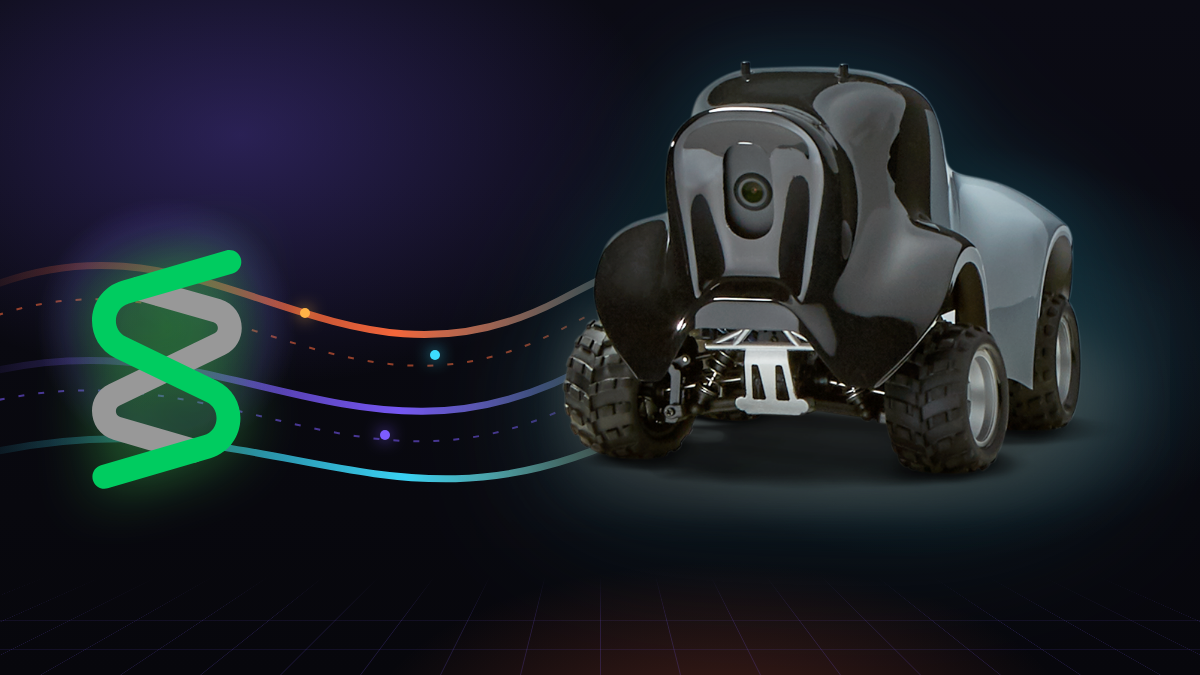
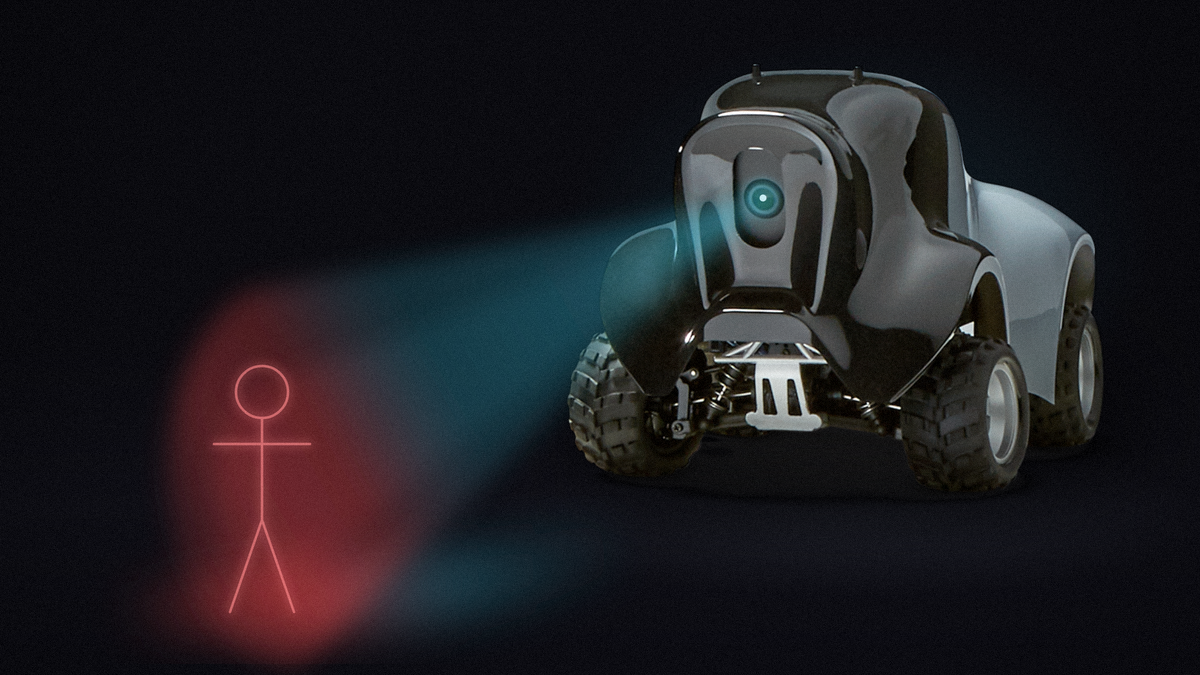
docs(article): new cover

diff --git a/docs/article/img/svg/cover-candidates/cover-C.html b/docs/article/img/svg/cover-candidates/cover-C.html
@@ -1,0 +1,69 @@
+<!doctype html><html><head><meta charset="utf-8"><title>Cover C Strands</title><style>
+/* Cover candidate C, "Strands": three ribbons from the Strands mark into the car's camera and wheels,
+   a night grid with depth of field (sharp near the car, soft at the edges), bloom on the light only. */
+html,body{margin:0;background:#0b0b10}
+.c{position:relative;width:1200px;height:675px;overflow:hidden;background:#0b0b10}
+.abs{position:absolute}
+.sky{left:0;top:0;width:1200px;height:675px;background:
+  radial-gradient(640px 200px at 760px 300px,rgba(61,220,255,.10),transparent 70%),
+  radial-gradient(420px 260px at 790px 250px,rgba(61,220,255,.08),transparent 70%),
+  linear-gradient(180deg,#0b0b10 0%,#0d0e16 40%,#0b0b10 46%,#0e0e15 100%)}
+svg{position:absolute;left:0;top:0}
+.gridSoft{filter:blur(4.5px)}
+.gridSharp{-webkit-mask-image:radial-gradient(470px 105px at 780px 482px,#000 35%,transparent 100%)}
+.car{left:430px;top:52px;width:746px}
+.shadow{left:430px;top:52px;width:746px;opacity:.95}
+.mark{left:84px;top:226px;height:206px}
+.halo{left:-20px;top:150px;width:340px;height:360px;border-radius:50%;
+  background:radial-gradient(closest-side,rgba(63,185,80,.20),rgba(63,185,80,.06) 55%,transparent)}
+</style></head><body><div class="c">
+<div class="abs sky"></div>
+<!-- the grid: a soft copy everywhere, a sharp copy only where the car stands -->
+<svg class="gridSoft" width="1200" height="675" viewBox="0 0 1200 675"><defs>
+ <linearGradient id="gf" x1="0" y1="300" x2="0" y2="675" gradientUnits="userSpaceOnUse"><stop offset="0" stop-color="#3ddcff" stop-opacity="0"/><stop offset=".25" stop-color="#3ddcff" stop-opacity=".16"/><stop offset="1" stop-color="#3ddcff" stop-opacity=".30"/></linearGradient></defs>
+ <path d="M-50 677.9 H1250 M-50 609.8 H1250 M-50 553.9 H1250 M-50 508.1 H1250 M-50 470.6 H1250 M-50 439.8 H1250 M-50 414.6 H1250 M-50 393.9 H1250 M-50 377.0 H1250 M-50 363.1 H1250 M-50 351.7 H1250 M-50 342.4 H1250 M-50 334.8 H1250 M-50 328.5 H1250 M-50 323.4 H1250 M-50 319.1 H1250 M-50 315.7 H1250 M-19040.0 1200.0 L512.5 311.2 M-18545.0 1200.0 L518.7 311.2 M-18050.0 1200.0 L524.9 311.2 M-17555.0 1200.0 L531.1 311.2 M-17060.0 1200.0 L537.2 311.2 M-16565.0 1200.0 L543.4 311.2 M-16070.0 1200.0 L549.6 311.2 M-15575.0 1200.0 L555.8 311.2 M-15080.0 1200.0 L562.0 311.2 M-14585.0 1200.0 L568.2 311.2 M-14090.0 1200.0 L574.4 311.2 M-13595.0 1200.0 L580.6 311.2 M-13100.0 1200.0 L586.8 311.2 M-12605.0 1200.0 L592.9 311.2 M-12110.0 1200.0 L599.1 311.2 M-11615.0 1200.0 L605.3 311.2 M-11120.0 1200.0 L611.5 311.2 M-10625.0 1200.0 L617.7 311.2 M-10130.0 1200.0 L623.9 311.2 M-9635.0 1200.0 L630.1 311.2 M-9140.0 1200.0 L636.2 311.2 M-8645.0 1200.0 L642.4 311.2 M-8150.0 1200.0 L648.6 311.2 M-7655.0 1200.0 L654.8 311.2 M-7160.0 1200.0 L661.0 311.2 M-6665.0 1200.0 L667.2 311.2 M-6170.0 1200.0 L673.4 311.2 M-5675.0 1200.0 L679.6 311.2 M-5180.0 1200.0 L685.8 311.2 M-4685.0 1200.0 L691.9 311.2 M-4190.0 1200.0 L698.1 311.2 M-3695.0 1200.0 L704.3 311.2 M-3200.0 1200.0 L710.5 311.2 M-2705.0 1200.0 L716.7 311.2 M-2210.0 1200.0 L722.9 311.2 M-1715.0 1200.0 L729.1 311.2 M-1220.0 1200.0 L735.2 311.2 M-725.0 1200.0 L741.4 311.2 M-230.0 1200.0 L747.6 311.2 M265.0 1200.0 L753.8 311.2 M760.0 1200.0 L760.0 311.2 M1255.0 1200.0 L766.2 311.2 M1750.0 1200.0 L772.4 311.2 M2245.0 1200.0 L778.6 311.2 M2740.0 1200.0 L784.8 311.2 M3235.0 1200.0 L790.9 311.2 M3730.0 1200.0 L797.1 311.2 M4225.0 1200.0 L803.3 311.2 M4720.0 1200.0 L809.5 311.2 M5215.0 1200.0 L815.7 311.2 M5710.0 1200.0 L821.9 311.2 M6205.0 1200.0 L828.1 311.2 M6700.0 1200.0 L834.2 311.2 M7195.0 1200.0 L840.4 311.2 M7690.0 1200.0 L846.6 311.2 M8185.0 1200.0 L852.8 311.2 M8680.0 1200.0 L859.0 311.2 M9175.0 1200.0 L865.2 311.2 M9670.0 1200.0 L871.4 311.2 M10165.0 1200.0 L877.6 311.2 M10660.0 1200.0 L883.8 311.2 M11155.0 1200.0 L889.9 311.2 M11650.0 1200.0 L896.1 311.2 M12145.0 1200.0 L902.3 311.2 M12640.0 1200.0 L908.5 311.2 M13135.0 1200.0 L914.7 311.2 M13630.0 1200.0 L920.9 311.2 M14125.0 1200.0 L927.1 311.2 M14620.0 1200.0 L933.2 311.2 M15115.0 1200.0 L939.4 311.2 M15610.0 1200.0 L945.6 311.2 M16105.0 1200.0 L951.8 311.2 M16600.0 1200.0 L958.0 311.2 M17095.0 1200.0 L964.2 311.2 M17590.0 1200.0 L970.4 311.2 M18085.0 1200.0 L976.6 311.2 M18580.0 1200.0 L982.8 311.2 M19075.0 1200.0 L988.9 311.2 M19570.0 1200.0 L995.1 311.2 M20065.0 1200.0 L1001.3 311.2 M20560.0 1200.0 L1007.5 311.2" stroke="url(#gf)" stroke-width="1.2" fill="none"/></svg>
+<svg class="gridSharp" width="1200" height="675" viewBox="0 0 1200 675"><defs>
+ <linearGradient id="gs" x1="0" y1="300" x2="0" y2="675" gradientUnits="userSpaceOnUse"><stop offset="0" stop-color="#3ddcff" stop-opacity="0"/><stop offset=".25" stop-color="#3ddcff" stop-opacity=".22"/><stop offset="1" stop-color="#3ddcff" stop-opacity=".38"/></linearGradient></defs>
+ <path d="M-50 677.9 H1250 M-50 609.8 H1250 M-50 553.9 H1250 M-50 508.1 H1250 M-50 470.6 H1250 M-50 439.8 H1250 M-50 414.6 H1250 M-50 393.9 H1250 M-50 377.0 H1250 M-50 363.1 H1250 M-50 351.7 H1250 M-50 342.4 H1250 M-50 334.8 H1250 M-50 328.5 H1250 M-50 323.4 H1250 M-50 319.1 H1250 M-50 315.7 H1250 M-19040.0 1200.0 L512.5 311.2 M-18545.0 1200.0 L518.7 311.2 M-18050.0 1200.0 L524.9 311.2 M-17555.0 1200.0 L531.1 311.2 M-17060.0 1200.0 L537.2 311.2 M-16565.0 1200.0 L543.4 311.2 M-16070.0 1200.0 L549.6 311.2 M-15575.0 1200.0 L555.8 311.2 M-15080.0 1200.0 L562.0 311.2 M-14585.0 1200.0 L568.2 311.2 M-14090.0 1200.0 L574.4 311.2 M-13595.0 1200.0 L580.6 311.2 M-13100.0 1200.0 L586.8 311.2 M-12605.0 1200.0 L592.9 311.2 M-12110.0 1200.0 L599.1 311.2 M-11615.0 1200.0 L605.3 311.2 M-11120.0 1200.0 L611.5 311.2 M-10625.0 1200.0 L617.7 311.2 M-10130.0 1200.0 L623.9 311.2 M-9635.0 1200.0 L630.1 311.2 M-9140.0 1200.0 L636.2 311.2 M-8645.0 1200.0 L642.4 311.2 M-8150.0 1200.0 L648.6 311.2 M-7655.0 1200.0 L654.8 311.2 M-7160.0 1200.0 L661.0 311.2 M-6665.0 1200.0 L667.2 311.2 M-6170.0 1200.0 L673.4 311.2 M-5675.0 1200.0 L679.6 311.2 M-5180.0 1200.0 L685.8 311.2 M-4685.0 1200.0 L691.9 311.2 M-4190.0 1200.0 L698.1 311.2 M-3695.0 1200.0 L704.3 311.2 M-3200.0 1200.0 L710.5 311.2 M-2705.0 1200.0 L716.7 311.2 M-2210.0 1200.0 L722.9 311.2 M-1715.0 1200.0 L729.1 311.2 M-1220.0 1200.0 L735.2 311.2 M-725.0 1200.0 L741.4 311.2 M-230.0 1200.0 L747.6 311.2 M265.0 1200.0 L753.8 311.2 M760.0 1200.0 L760.0 311.2 M1255.0 1200.0 L766.2 311.2 M1750.0 1200.0 L772.4 311.2 M2245.0 1200.0 L778.6 311.2 M2740.0 1200.0 L784.8 311.2 M3235.0 1200.0 L790.9 311.2 M3730.0 1200.0 L797.1 311.2 M4225.0 1200.0 L803.3 311.2 M4720.0 1200.0 L809.5 311.2 M5215.0 1200.0 L815.7 311.2 M5710.0 1200.0 L821.9 311.2 M6205.0 1200.0 L828.1 311.2 M6700.0 1200.0 L834.2 311.2 M7195.0 1200.0 L840.4 311.2 M7690.0 1200.0 L846.6 311.2 M8185.0 1200.0 L852.8 311.2 M8680.0 1200.0 L859.0 311.2 M9175.0 1200.0 L865.2 311.2 M9670.0 1200.0 L871.4 311.2 M10165.0 1200.0 L877.6 311.2 M10660.0 1200.0 L883.8 311.2 M11155.0 1200.0 L889.9 311.2 M11650.0 1200.0 L896.1 311.2 M12145.0 1200.0 L902.3 311.2 M12640.0 1200.0 L908.5 311.2 M13135.0 1200.0 L914.7 311.2 M13630.0 1200.0 L920.9 311.2 M14125.0 1200.0 L927.1 311.2 M14620.0 1200.0 L933.2 311.2 M15115.0 1200.0 L939.4 311.2 M15610.0 1200.0 L945.6 311.2 M16105.0 1200.0 L951.8 311.2 M16600.0 1200.0 L958.0 311.2 M17095.0 1200.0 L964.2 311.2 M17590.0 1200.0 L970.4 311.2 M18085.0 1200.0 L976.6 311.2 M18580.0 1200.0 L982.8 311.2 M19075.0 1200.0 L988.9 311.2 M19570.0 1200.0 L995.1 311.2 M20065.0 1200.0 L1001.3 311.2 M20560.0 1200.0 L1007.5 311.2" stroke="url(#gs)" stroke-width="1" fill="none"/></svg>
+<div class="abs halo"></div>
+<img class="abs shadow" src="car-shadow.png">
+<img class="abs car" src="car-cut.png">
+<!-- the three strands: cyan into the camera, orange and green into the front wheels -->
+<svg width="1200" height="675" viewBox="0 0 1200 675"><defs>
+ <filter id="bloom" x="-20%" y="-50%" width="140%" height="200%"><feGaussianBlur stdDeviation="11"/></filter>
+ <filter id="glow" x="-20%" y="-50%" width="140%" height="200%"><feGaussianBlur stdDeviation="3"/></filter>
+ <filter id="dot" x="-100%" y="-100%" width="300%" height="300%"><feGaussianBlur stdDeviation="6"/></filter>
+ <linearGradient id="gcy" gradientUnits="userSpaceOnUse" x1="140" y1="0" x2="731" y2="0"><stop offset="0" stop-color="#3ddcff" stop-opacity="0"/><stop offset=".22" stop-color="#3ddcff" stop-opacity=".9"/><stop offset="1" stop-color="#3ddcff"/></linearGradient>
+ <linearGradient id="tcy" gradientUnits="userSpaceOnUse" x1="140" y1="0" x2="731" y2="0"><stop offset="0" stop-color="#c8f5ff" stop-opacity="0"/><stop offset=".3" stop-color="#c8f5ff" stop-opacity=".8"/><stop offset="1" stop-color="#c8f5ff"/></linearGradient>
+ <linearGradient id="gor" gradientUnits="userSpaceOnUse" x1="140" y1="0" x2="578" y2="0"><stop offset="0" stop-color="#ff6b3d" stop-opacity="0"/><stop offset=".22" stop-color="#ff6b3d" stop-opacity=".9"/><stop offset="1" stop-color="#ff6b3d"/></linearGradient>
+ <linearGradient id="tor" gradientUnits="userSpaceOnUse" x1="140" y1="0" x2="578" y2="0"><stop offset="0" stop-color="#ffc3ad" stop-opacity="0"/><stop offset=".3" stop-color="#ffc3ad" stop-opacity=".8"/><stop offset="1" stop-color="#ffc3ad"/></linearGradient>
+ <linearGradient id="ggr" gradientUnits="userSpaceOnUse" x1="140" y1="0" x2="936" y2="0"><stop offset="0" stop-color="#3fb950" stop-opacity="0"/><stop offset=".22" stop-color="#3fb950" stop-opacity=".9"/><stop offset="1" stop-color="#3fb950"/></linearGradient>
+ <linearGradient id="tgr" gradientUnits="userSpaceOnUse" x1="140" y1="0" x2="936" y2="0"><stop offset="0" stop-color="#b6f0c0" stop-opacity="0"/><stop offset=".3" stop-color="#b6f0c0" stop-opacity=".8"/><stop offset="1" stop-color="#b6f0c0"/></linearGradient>
+</defs>
+ <g fill="none" stroke-linecap="round">
+  <path d="M150 300 C 300 200, 430 330, 560 250 S 690 182, 731 190" stroke="url(#gcy)" stroke-width="16" opacity=".40" filter="url(#bloom)"/>
+  <path d="M150 300 C 300 200, 430 330, 560 250 S 690 182, 731 190" stroke="url(#gcy)" stroke-width="6" opacity=".9" filter="url(#glow)"/>
+  <path d="M150 300 C 300 200, 430 330, 560 250 S 690 182, 731 190" stroke="url(#gcy)" stroke-width="4"/>
+  <path d="M150 300 C 300 200, 430 330, 560 250 S 690 182, 731 190" stroke="url(#tcy)" stroke-width="1.6"/>
+  <path d="M150 312 C 300 216, 432 344, 562 264 S 690 196, 728 194" stroke="url(#gcy)" stroke-width="1.2" opacity=".55"/>
+ </g>
+ <circle cx="731" cy="190" r="15" fill="#3ddcff" opacity=".55" filter="url(#dot)"/><circle cx="731" cy="190" r="3.5" fill="#c8f5ff"/>
+ <g fill="none" stroke-linecap="round">
+  <path d="M150 334 C 280 330, 380 450, 470 420 S 545 400, 578 408" stroke="url(#gor)" stroke-width="16" opacity=".40" filter="url(#bloom)"/>
+  <path d="M150 334 C 280 330, 380 450, 470 420 S 545 400, 578 408" stroke="url(#gor)" stroke-width="6" opacity=".9" filter="url(#glow)"/>
+  <path d="M150 334 C 280 330, 380 450, 470 420 S 545 400, 578 408" stroke="url(#gor)" stroke-width="4"/>
+  <path d="M150 334 C 280 330, 380 450, 470 420 S 545 400, 578 408" stroke="url(#tor)" stroke-width="1.6"/>
+  <path d="M150 346 C 282 344, 380 466, 472 434 S 546 414, 576 412" stroke="url(#gor)" stroke-width="1.2" opacity=".55"/>
+ </g>
+ <circle cx="578" cy="408" r="15" fill="#ff6b3d" opacity=".55" filter="url(#dot)"/><circle cx="578" cy="408" r="3.5" fill="#ffc3ad"/>
+ <g fill="none" stroke-linecap="round">
+  <path d="M150 366 C 260 470, 420 540, 600 512 S 850 486, 936 460" stroke="url(#ggr)" stroke-width="16" opacity=".40" filter="url(#bloom)"/>
+  <path d="M150 366 C 260 470, 420 540, 600 512 S 850 486, 936 460" stroke="url(#ggr)" stroke-width="6" opacity=".9" filter="url(#glow)"/>
+  <path d="M150 366 C 260 470, 420 540, 600 512 S 850 486, 936 460" stroke="url(#ggr)" stroke-width="4"/>
+  <path d="M150 366 C 260 470, 420 540, 600 512 S 850 486, 936 460" stroke="url(#tgr)" stroke-width="1.6"/>
+  <path d="M150 378 C 262 486, 420 556, 602 526 S 852 498, 932 466" stroke="url(#ggr)" stroke-width="1.2" opacity=".55"/>
+ </g>
+ <circle cx="936" cy="460" r="15" fill="#3fb950" opacity=".55" filter="url(#dot)"/><circle cx="936" cy="460" r="3.5" fill="#b6f0c0"/>
+</svg>
+<img class="abs mark" src="strands-mark.svg">
+</div></body></html>

diff --git a/docs/article/img/svg/cover-candidates/cover-A.html b/docs/article/img/svg/cover-candidates/cover-A.html
@@ -1,0 +1,67 @@
+<!doctype html><html><head><meta charset="utf-8"><title>Cover A Judged</title><style>
+/* Cover candidate A, "Judged": the car on a dark floor, a probability scale of light under it. */
+html,body{margin:0;background:#0b0b10}
+.c{position:relative;width:1200px;height:675px;overflow:hidden;background:#0b0b10}
+.abs{position:absolute}
+/* floor: a slightly lifted plane below the horizon, a cool pool of light under the car */
+.floor{left:0;top:0;width:1200px;height:675px;background:
+  radial-gradient(520px 120px at 735px 535px,rgba(170,190,215,.13),transparent 70%),
+  radial-gradient(900px 260px at 735px 560px,rgba(61,220,255,.045),transparent 70%),
+  linear-gradient(180deg,#0b0b10 0%,#0b0b10 52%,#101018 74%,#0d0d13 100%)}
+/* backlight so the black body separates from the black ground */
+.back{left:0;top:0;width:1200px;height:675px;background:
+  radial-gradient(430px 300px at 740px 250px,rgba(61,220,255,.13),transparent 70%),
+  radial-gradient(150px 120px at 1032px 272px,rgba(255,77,79,.34),transparent 70%)}
+.car{left:313px;top:28px;width:839px}
+.refl{left:313px;top:28px;width:839px;transform-origin:50% 489px;transform:scaleY(-1);opacity:.32;filter:blur(1.2px);
+  -webkit-mask-image:linear-gradient(180deg,transparent 0%,transparent 45%,rgba(0,0,0,.55) 75%,#000 88%)}
+.shadow{left:313px;top:28px;width:839px;opacity:.9}
+/* tail light: a faint red bloom at the rear edge, and its smear on the floor */
+.tail{left:1000px;top:247px;width:64px;height:50px;border-radius:50%;
+  background:radial-gradient(closest-side,rgba(255,110,110,.55),rgba(255,77,79,.22) 40%,transparent 100%);mix-blend-mode:screen}
+.tailfloor{left:950px;top:500px;width:220px;height:44px;border-radius:50%;
+  background:radial-gradient(closest-side,rgba(255,77,79,.14),transparent);filter:blur(6px)}
+svg{position:absolute;left:0;top:0}
+.mark{left:52px;top:46px;height:44px;opacity:.92}
+</style></head><body><div class="c">
+<div class="abs floor"></div>
+<div class="abs back"></div>
+<img class="abs refl" src="car-cut.png">
+<div class="abs tailfloor"></div>
+<!-- probability scale projected on the floor, an arc in front of the car: red 0..0.35, cyan 0.35..0.65, green 0.65..1 -->
+<svg width="1200" height="675" viewBox="0 0 1200 675">
+ <defs>
+  <filter id="spill" x="-30%" y="-60%" width="160%" height="220%"><feGaussianBlur stdDeviation="16 6"/></filter>
+  <filter id="glow" x="-10%" y="-40%" width="120%" height="180%"><feGaussianBlur stdDeviation="3"/></filter>
+  <linearGradient id="fadeL" x1="300" x2="1170" gradientUnits="userSpaceOnUse"><stop offset="0" stop-color="#fff" stop-opacity="0"/><stop offset=".14" stop-color="#fff"/><stop offset=".86" stop-color="#fff"/><stop offset="1" stop-color="#fff" stop-opacity="0"/></linearGradient>
+  <mask id="m" maskUnits="userSpaceOnUse" x="0" y="0" width="1200" height="675"><rect x="0" y="0" width="1200" height="675" fill="url(#fadeL)"/></mask>
+ </defs>
+ <g mask="url(#m)" fill="none" stroke-linecap="butt">
+  <!-- light spilled on the floor around the scale -->
+  <g filter="url(#spill)" stroke-width="12" opacity=".55">
+   <path d="M316.5 534.7 A440 96 0 0 0 577.3 594.6" stroke="#ff4d4f"/>
+   <path d="M577.3 594.6 A440 96 0 0 0 892.7 594.6" stroke="#3ddcff"/>
+   <path d="M892.7 594.6 A440 96 0 0 0 1153.5 534.7" stroke="#3fb950"/>
+  </g>
+  <g filter="url(#glow)" stroke-width="5" opacity=".9">
+   <path d="M316.5 534.7 A440 96 0 0 0 577.3 594.6" stroke="#ff4d4f"/>
+   <path d="M577.3 594.6 A440 96 0 0 0 892.7 594.6" stroke="#3ddcff"/>
+   <path d="M892.7 594.6 A440 96 0 0 0 1153.5 534.7" stroke="#3fb950"/>
+  </g>
+  <g stroke-width="2">
+   <path d="M316.5 534.7 A440 96 0 0 0 577.3 594.6" stroke="#ff9a9b"/>
+   <path d="M577.3 594.6 A440 96 0 0 0 892.7 594.6" stroke="#a8f0ff"/>
+   <path d="M892.7 594.6 A440 96 0 0 0 1153.5 534.7" stroke="#8fe39d"/>
+  </g>
+ </g>
+ <!-- the two thresholds, foreshortened on the floor -->
+ <g stroke="#f2f2f7" stroke-linecap="round" fill="none">
+  <g filter="url(#glow)" stroke-width="4" opacity=".6"><path d="M589.4 587.4 L565.2 601.8"/><path d="M880.6 587.4 L904.8 601.8"/></g>
+  <g stroke-width="2"><path d="M589.4 587.4 L565.2 601.8"/><path d="M880.6 587.4 L904.8 601.8"/></g>
+ </g>
+</svg>
+<img class="abs shadow" src="car-shadow.png">
+<img class="abs car" src="car-cut.png">
+<div class="abs tail"></div>
+<img class="abs mark" src="strands-mark.svg">
+</div></body></html>

diff --git a/docs/article/img/svg/cover-candidates/cover-B.html b/docs/article/img/svg/cover-candidates/cover-B.html
@@ -1,0 +1,61 @@
+<!doctype html><html><head><meta charset="utf-8"><title>Cover B Seen</title><style>
+/* Cover candidate B, "Seen": a cone of cyan light from the car's camera; it turns red on the figure. */
+html,body{margin:0;background:#0b0b10}
+.c{position:relative;width:1200px;height:675px;overflow:hidden;background:#0b0b10}
+.abs{position:absolute}
+.floor{left:0;top:0;width:1200px;height:675px;background:
+  radial-gradient(420px 300px at 860px 240px,rgba(61,220,255,.10),transparent 70%),
+  radial-gradient(520px 110px at 850px 520px,rgba(170,190,215,.08),transparent 70%),
+  linear-gradient(180deg,#0b0b10 0%,#0b0b10 50%,#0f0f16 75%,#0c0c12 100%)}
+.car{left:470px;top:62px;width:727px}
+.shadow{left:470px;top:62px;width:727px;opacity:.9}
+svg{position:absolute;left:0;top:0}
+
+</style></head><body><div class="c">
+<div class="abs floor"></div>
+<img class="abs shadow" src="car-shadow.png">
+<img class="abs car" src="car-cut.png">
+<svg class="beam" width="1200" height="675" viewBox="0 0 1200 675">
+ <defs>
+  <!-- one gradient along the beam axis: cyan from the lens, red where it reaches the figure -->
+  <linearGradient id="beam" gradientUnits="userSpaceOnUse" x1="763" y1="198" x2="150" y2="548">
+   <stop offset="0" stop-color="#3ddcff" stop-opacity=".50"/>
+   <stop offset=".16" stop-color="#3ddcff" stop-opacity=".24"/>
+   <stop offset=".52" stop-color="#3ddcff" stop-opacity=".16"/>
+   <stop offset=".70" stop-color="#ff4d4f" stop-opacity=".26"/>
+   <stop offset=".84" stop-color="#ff4d4f" stop-opacity=".30"/>
+   <stop offset="1" stop-color="#ff4d4f" stop-opacity=".10"/>
+  </linearGradient>
+  <linearGradient id="pool" gradientUnits="userSpaceOnUse" x1="640" y1="560" x2="120" y2="620">
+   <stop offset="0" stop-color="#3ddcff" stop-opacity="0"/>
+   <stop offset=".35" stop-color="#3ddcff" stop-opacity=".22"/>
+   <stop offset=".62" stop-color="#ff4d4f" stop-opacity=".40"/>
+   <stop offset=".85" stop-color="#ff4d4f" stop-opacity=".25"/>
+   <stop offset="1" stop-color="#ff4d4f" stop-opacity="0"/>
+  </linearGradient>
+  <filter id="soft" x="-20%" y="-20%" width="140%" height="140%"><feGaussianBlur stdDeviation="13"/></filter>
+  <filter id="soft2" x="-20%" y="-20%" width="140%" height="140%"><feGaussianBlur stdDeviation="22"/></filter>
+  <filter id="glow" x="-50%" y="-50%" width="200%" height="200%"><feGaussianBlur stdDeviation="5"/></filter>
+ </defs>
+ <!-- light on the floor, from the car's nose to the figure's feet -->
+ <path d="M600 520 C 480 560, 120 560, 70 610 C 120 660, 470 650, 640 560 Z" fill="url(#pool)" filter="url(#soft2)"/>
+ <!-- the cone -->
+ <path d="M763 198 L250 290 A 125 195 0 0 0 300 668 Z" fill="url(#beam)" filter="url(#soft)"/>
+ <path d="M763 198 L250 390 A 60 110 0 0 0 268 600 Z" fill="url(#beam)" filter="url(#soft)" opacity=".5"/>
+</svg>
+<svg width="1200" height="675" viewBox="0 0 1200 675">
+ <defs><filter id="glowF" x="-50%" y="-50%" width="200%" height="200%"><feGaussianBlur stdDeviation="5"/></filter></defs>
+ <!-- the drawn figure from the Pit Wall, a faint outline -->
+ <g fill="none" stroke="#ff8a8c" stroke-linecap="round" stroke-linejoin="round">
+  <g filter="url(#glowF)" stroke-width="6" opacity=".35">
+   <circle cx="262" cy="392" r="26"/><path d="M262 418 V520 M214 444 H310 M262 520 L230 612 M262 520 L294 612"/>
+  </g>
+  <g stroke-width="2.5" opacity=".62">
+   <circle cx="262" cy="392" r="26"/><path d="M262 418 V520 M214 444 H310 M262 520 L230 612 M262 520 L294 612"/>
+  </g>
+ </g>
+ <!-- the lens -->
+ <circle cx="763" cy="198" r="18" fill="#3ddcff" opacity=".35" filter="url(#glowF)"/>
+ <circle cx="763" cy="198" r="3.5" fill="#d6f8ff" opacity=".9"/>
+</svg>
+</div></body></html>

diff --git a/docs/article/img/svg/cover-candidates/render.py b/docs/article/img/svg/cover-candidates/render.py
@@ -1,0 +1,65 @@
+"""Render a cover candidate: headless Chrome at 2x, downsample, vignette, grain.
+
+Usage: python3 render.py A [B C ...]
+Reads cover-<X>.html next to this file, writes
+docs/video/build/cover-candidates/cover-<X>.png and cover-<X>-300.png.
+"""
+import subprocess, sys, pathlib
+import numpy as np
+from PIL import Image
+
+HERE = pathlib.Path(__file__).resolve().parent
+OUT = HERE.parents[4] / "docs/video/build/cover-candidates"
+CHROME = "/Applications/Google Chrome.app/Contents/MacOS/Google Chrome"
+W, H = 1200, 675
+
+
+def shoot(html: pathlib.Path, png: pathlib.Path) -> Image.Image:
+    subprocess.run([CHROME, "--headless=new", "--disable-gpu", "--hide-scrollbars",
+                    "--force-device-scale-factor=2", f"--window-size={W},{H}",
+                    "--allow-file-access-from-files", "--default-background-color=0b0b10ff",
+                    "--virtual-time-budget=3000", f"--screenshot={png}", html.as_uri()],
+                   check=True, capture_output=True)
+    im = Image.open(png).convert("RGB")
+    assert im.size == (2 * W, 2 * H), im.size
+    return im.resize((W, H), Image.LANCZOS)
+
+
+def vignette(a: np.ndarray, inner=0.60, corner=0.18) -> np.ndarray:
+    y, x = np.mgrid[0:H, 0:W].astype(float)
+    r = np.hypot(x - W / 2, y - H / 2) / np.hypot(W / 2, H / 2)
+    t = np.clip((r - inner) / (1 - inner), 0, 1)
+    t = t * t * (3 - 2 * t)
+    return a * (1 - corner * t)[..., None]
+
+
+def grain(a: np.ndarray, sigma=3.0, seed=7) -> np.ndarray:
+    n = np.random.default_rng(seed).normal(0, sigma, (H, W))
+    return a + n[..., None]
+
+
+def build(tag: str) -> None:
+    OUT.mkdir(parents=True, exist_ok=True)
+    raw = OUT / f"_raw-{tag}.png"
+    im = shoot(HERE / f"cover-{tag}.html", raw)
+    raw.unlink()
+    a = np.asarray(im).astype(float)
+    a = grain(vignette(a))
+    out = Image.fromarray(np.clip(a + 0.5, 0, 255).astype(np.uint8))
+    out.save(OUT / f"cover-{tag}.png", optimize=True)
+    out.resize((300, 169), Image.LANCZOS).save(OUT / f"cover-{tag}-300.png")
+    print(tag, out.size)
+
+
+def sheet() -> None:
+    ims = [Image.open(OUT / f"cover-{t}.png") for t in "ABC"]
+    pad = 24
+    s = Image.new("RGB", (pad + 3 * (600 + pad), 338 + 2 * pad), (20, 20, 26))
+    for i, im in enumerate(ims):
+        s.paste(im.resize((600, 338), Image.LANCZOS), (pad + i * (600 + pad), pad))
+    s.save(OUT / "candidates-sheet.png", optimize=True)
+
+
+if __name__ == "__main__":
+    for t in sys.argv[1:]:
+        sheet() if t == "sheet" else build(t)

diff --git a/docs/article/img/MANIFEST.md b/docs/article/img/MANIFEST.md
@@ -50,3 +50,6 @@ afterwards; ports 8765 and 8111 were never touched.
 | fig-deepracer-strands.png | 1600x900 | the stock car with seven Strands callouts (camera: Decider; drive: strands-robots; servos: deadman; compute: Harness; loop: Agents; voice: Bidi; process: Box); source img/svg/fig-deepracer-strands.html over the official product render | section 1 |
 
 | cover.png (v2) | 1200x675, no text | the stock car large on a perspective grid, lit cyan and orange, with three Strands ribbons flowing from the Strands mark into the car; source img/svg/cover.html; the first cover is kept as cover-v1.png |
+| `cover.png` (v3, "Seen") | The car facing the viewer; a cyan beam from its camera sweeps the floor and turns red on a drawn figure. No text. 1200x675. | Made for this article from the official render and the Pit Wall stick figure; source `svg/cover-candidates/cover-B.html`. |
+| `cover-v2.png` | Previous cover (car on a grid with Strands ribbons). | Kept for reference. |
+| `cover-options/cover-judged.png`, `cover-options/cover-strands.png` | The two other v3 candidates. | Sources in `svg/cover-candidates/`. |
